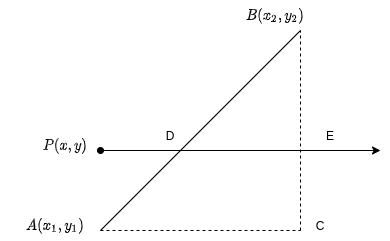
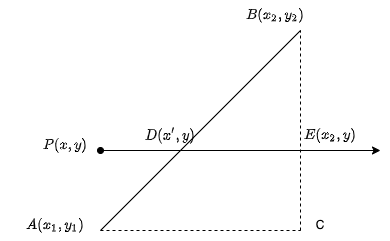
change equation

diff --git a/docs/Coding/Algorithm/07_geometry.md b/docs/Coding/Algorithm/07_geometry.md
@@ -397,13 +397,13 @@ $$
 so we have:
 
 $$
-|DE| = x_2 - x = \frac{|AC||BE|}{|BC|} = \frac{(y_2 - y_1) * (y_2 - y)}{y_2 - y_1}
+|DE| = x_2 - x' = \frac{|AC||BE|}{|BC|} = \frac{(y_2 - y_1) * (y_2 - y)}{y_2 - y_1}
 $$
 
 so:
 
 $$
-x = x_2 - \frac{(y_2 - y_1) * (y_2 - y)}{y_2 - y_1}
+x' = x_2 - \frac{(y_2 - y_1) * (y_2 - y)}{y_2 - y_1}
 $$
 
 ```C++
